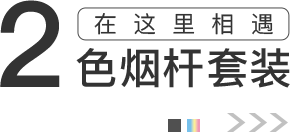
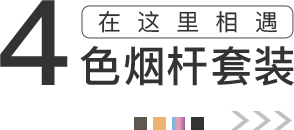
修改套装标题图片

diff --git a/public/index.html b/public/index.html
@@ -203,7 +203,7 @@
 	<div class="suit" id="suit">
 		<div class="wrapper w-1360 ">
 			<div class="taste-title">
-				<img src="images/suit-title.png?v=10b0c45974" alt="vladdin,瓦拉丁,电子烟,套装">
+				<img src="images/suit-title.png?v=7425d38a87" alt="vladdin,瓦拉丁,电子烟,套装">
 			</div>
 			
 			<div class="suit-list ">

diff --git a/src/index.html b/src/index.html
@@ -203,7 +203,7 @@
 	<div class="suit" id="suit">
 		<div class="wrapper w-1360 ">
 			<div class="taste-title">
-				<img src="images/suit-title.png?v=10b0c45974" alt="vladdin,瓦拉丁,电子烟,套装">
+				<img src="images/suit-title.png?v=7425d38a87" alt="vladdin,瓦拉丁,电子烟,套装">
 			</div>
 			
 			<div class="suit-list ">
